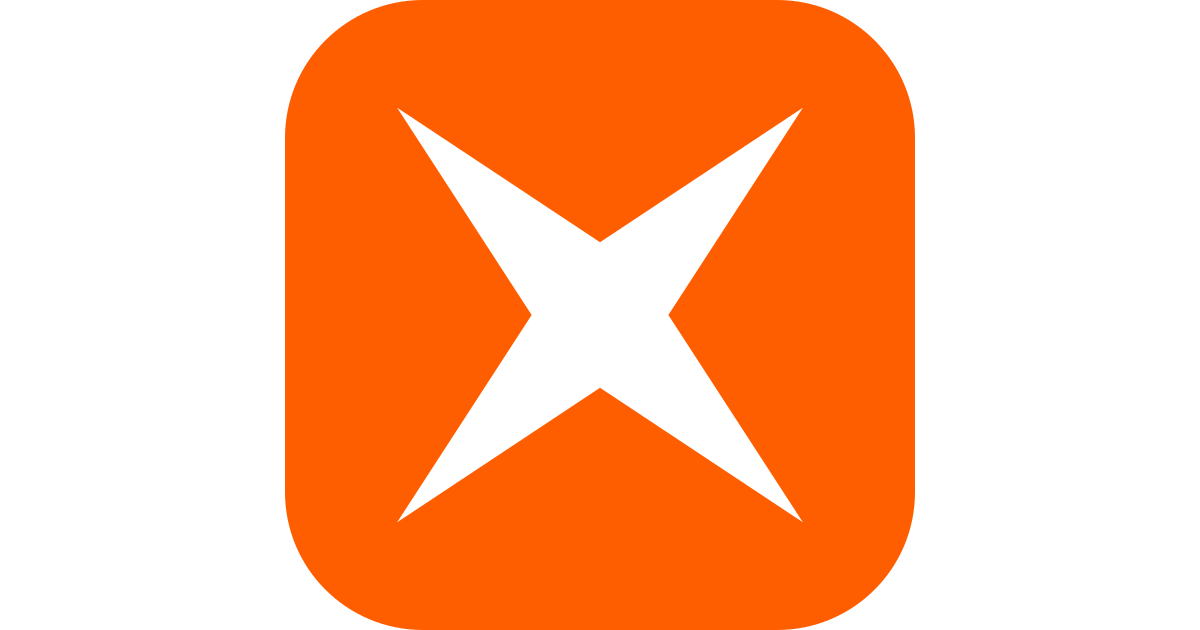
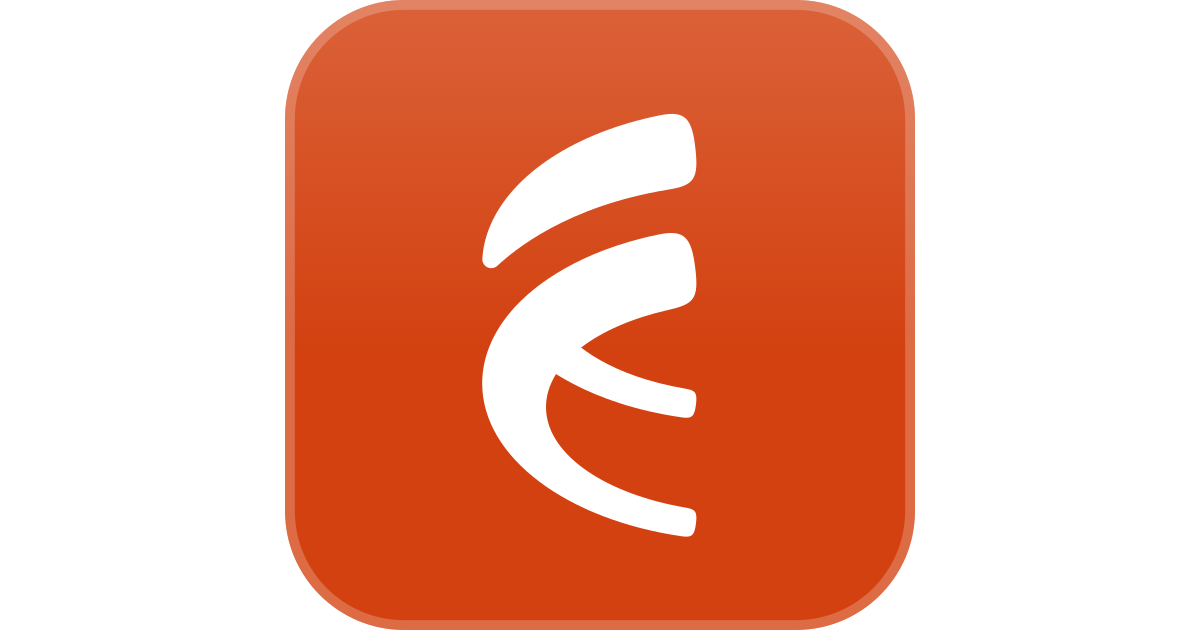
Use the orange Fulldev mark for Sitex (#37)
Sitex keeps its name and now uses the white Fulldev mark on the same
orange tile as Fulldev UI. The sidebar, mobile header, favicon and
social image share that mark. A 96px PNG favicon accompanies the SVG for
search engines.

Validation: full source checks and the docs production build passed; all
six generated pages contain both favicon formats, and the PNG is served
with the correct size and content type. The deploy preview was checked
in the browser, and its metadata, favicon files and social image match
the validated build.

diff --git a/apps/docs/src/components/ui/logo.tsx b/apps/docs/src/components/ui/logo.tsx
@@ -1,4 +1,4 @@
-import { type ComponentProps, type HTMLAttributes } from "react"
+import { type ComponentProps, type HTMLAttributes, useId } from "react"
 
 import { cn } from "@/lib/utils"
 
@@ -22,6 +22,8 @@ function Logo({ className, href, ...props }: LogoProps) {
 }
 
 function LogoImage({ className, ...props }: LogoImageProps) {
+  const sheenId = useId()
+
   return (
     <span
       className={cn("inline-flex size-[30px] shrink-0 text-current", className)}
@@ -35,12 +37,38 @@ function LogoImage({ className, ...props }: LogoImageProps) {
         viewBox="0 0 32 32"
         xmlns="http://www.w3.org/2000/svg"
       >
-        <rect width="32" height="32" rx="7" fill="#ff5e00" />
-        <path
-          d="M6.8 6.6 16 12.7l9.2-6.1-6.1 9.4 6.1 9.4-9.2-6.1-9.2 6.1 6.1-9.4z"
-          fill="#ffffff"
-          transform="translate(16 16) scale(1.12) translate(-16 -16)"
+        <defs>
+          <linearGradient id={sheenId} x1="0" y1="0" x2="0" y2="1">
+            <stop stopColor="white" stopOpacity="0.17" />
+            <stop offset="0.55" stopColor="white" stopOpacity="0" />
+          </linearGradient>
+        </defs>
+        <rect width="32" height="32" rx="6.048" fill="#d34110" />
+        <rect width="32" height="32" rx="6.048" fill={`url(#${sheenId})`} />
+        <rect
+          x="0.25"
+          y="0.25"
+          width="31.5"
+          height="31.5"
+          rx="5.798"
+          stroke="white"
+          strokeOpacity="0.22"
+          strokeWidth="0.5"
         />
+        <g transform="translate(10.016 5.573) scale(0.9066666666666667)">
+          <path
+            d="M9.955 0.313C5.246 1.263 1.658 3.599 0.434 6.534C0.19 7.118 0.046 7.725 0.009 8.348C-0.003 8.552 0.11 8.743 0.294 8.83C0.479 8.917 0.698 8.883 0.848 8.744C1.78 7.881 4.717 5.41 10.404 4.48C11.847 4.244 12.134 3.917 11.95 2.206C11.766 0.495 11.389 0.024 9.955 0.313Z"
+            fill="white"
+          />
+          <path
+            d="M9.88 6.991C5.285 7.935 2.974 9.921 2.178 10.698C0.632 12.206 0 13.835 0 15.33C0 19.489 4.773 22.976 11.193 23.899C11.753 23.979 11.894 23.839 11.976 23.179C12.057 22.518 11.949 22.386 11.392 22.29C6.958 21.533 3.726 19.389 3.58 16.84C3.535 16.049 3.76 14.692 5.536 13.328C6.736 12.406 8.42 11.671 10.4 11.223C11.851 10.893 12.152 10.624 11.938 8.886C11.725 7.148 11.338 6.691 9.88 6.991Z"
+            fill="white"
+          />
+          <path
+            d="M11.193 17.238C5.987 16.49 3.213 14.334 2.104 13.229L4.381 12.195C5.161 13.214 7.18 14.91 11.392 15.63C11.949 15.725 12.057 15.858 11.976 16.518C11.894 17.179 11.753 17.319 11.193 17.238Z"
+            fill="white"
+          />
+        </g>
       </svg>
     </span>
   )

diff --git a/apps/docs/src/layouts/base.tsx b/apps/docs/src/layouts/base.tsx
@@ -49,6 +49,8 @@ export default function BaseLayout({
           }
         }
       >
+        <link rel="icon" href="/favicon.png" type="image/png" sizes="96x96" />
+        <link rel="icon" href="/favicon.svg" type="image/svg+xml" sizes="any" />
         <ThemeScript {...theme} />
         <link rel="alternate" type="text/markdown" href={markdownPath(path)} />
       </LayoutHead>

diff --git a/apps/docs/DESIGN.md b/apps/docs/DESIGN.md
@@ -1,0 +1,7 @@
+# Sitex docs
+
+The docs use shadcn's base-vega components. The product name is Sitex.
+
+The logo is the white Fulldev mark on the orange tile, matching Fulldev UI.
+The sidebar, mobile header, favicon and social image use the same mark,
+tile proportions, sheen and fine white rim.

diff --git a/.changeset/rare-ravens-kiss.md b/.changeset/rare-ravens-kiss.md
@@ -1,0 +1,2 @@
+---
+---
